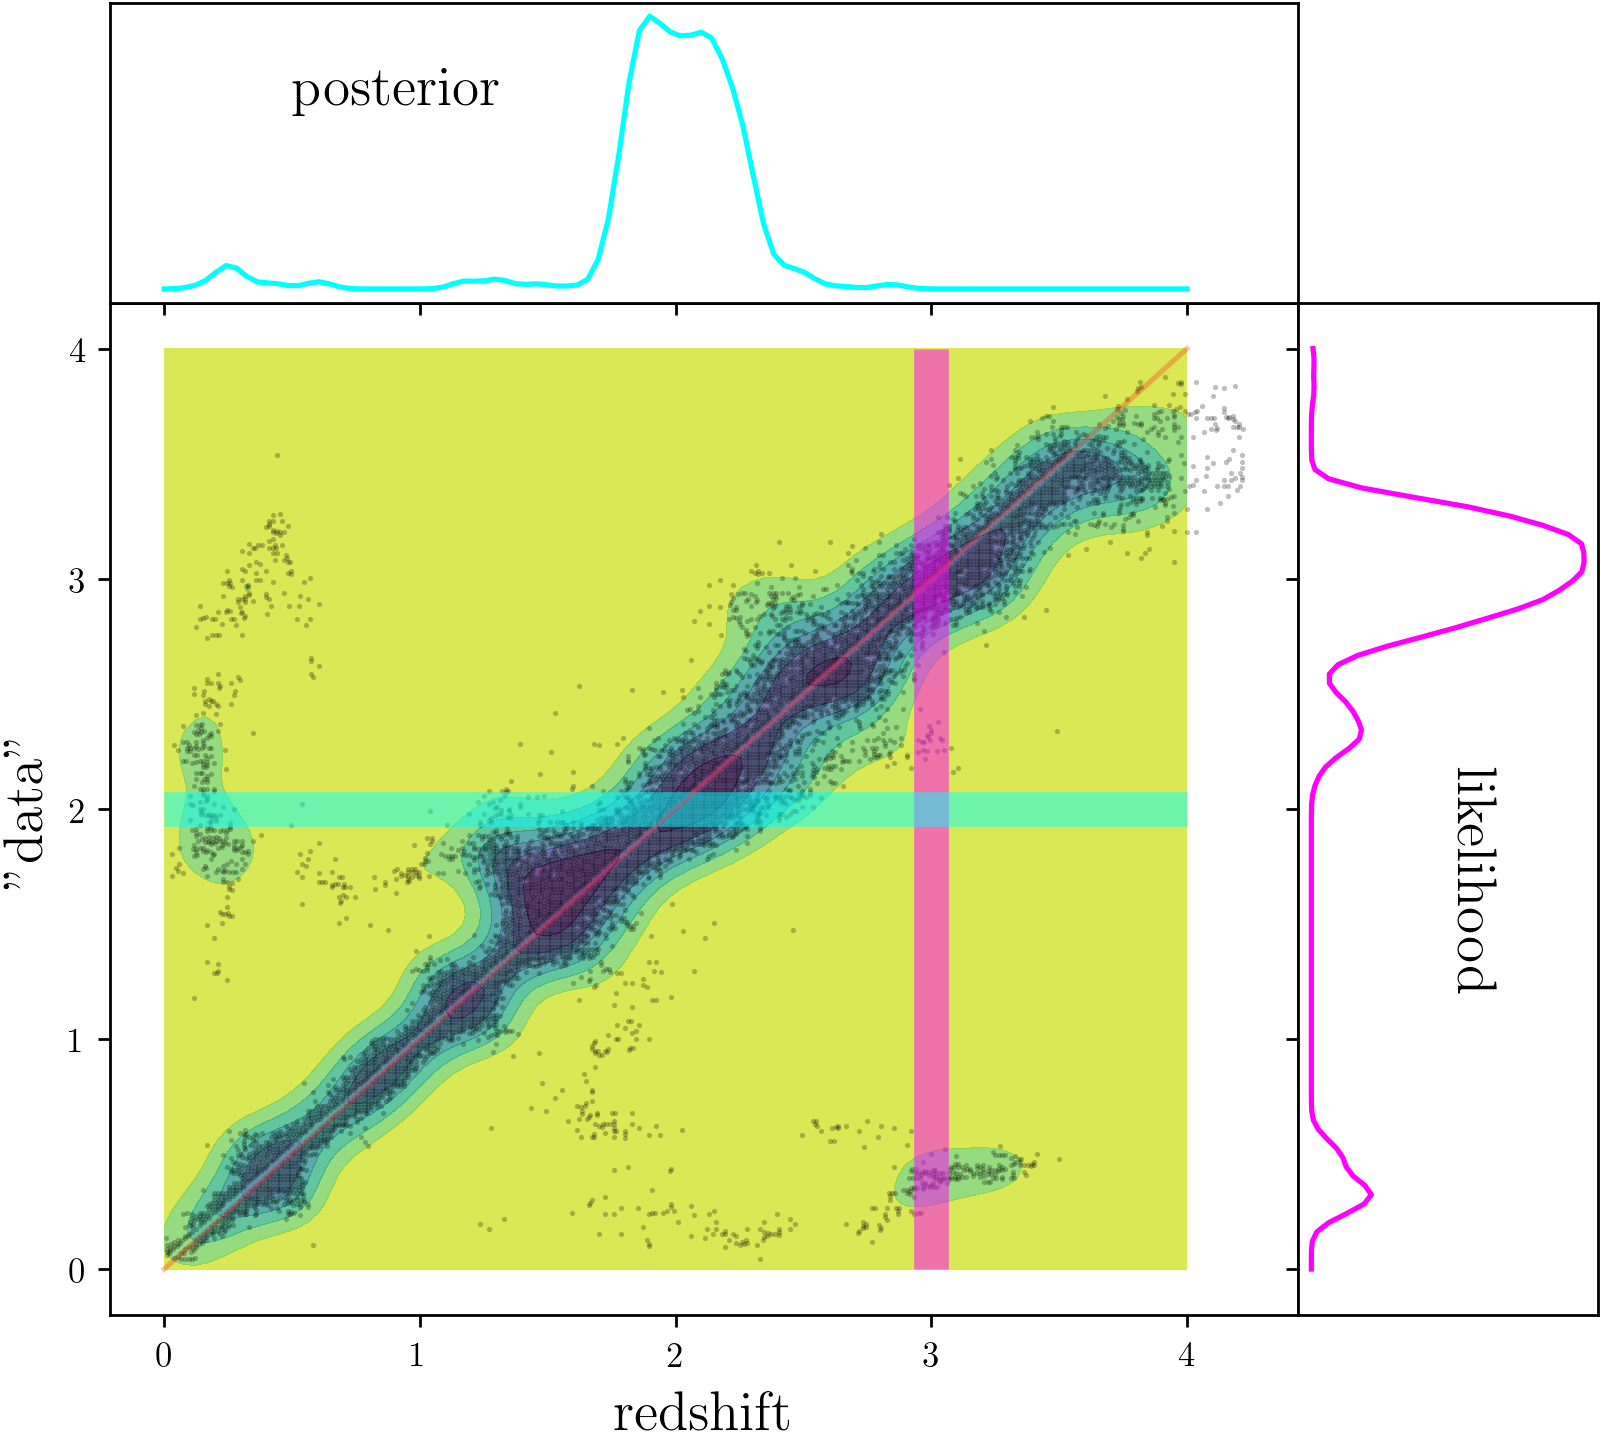
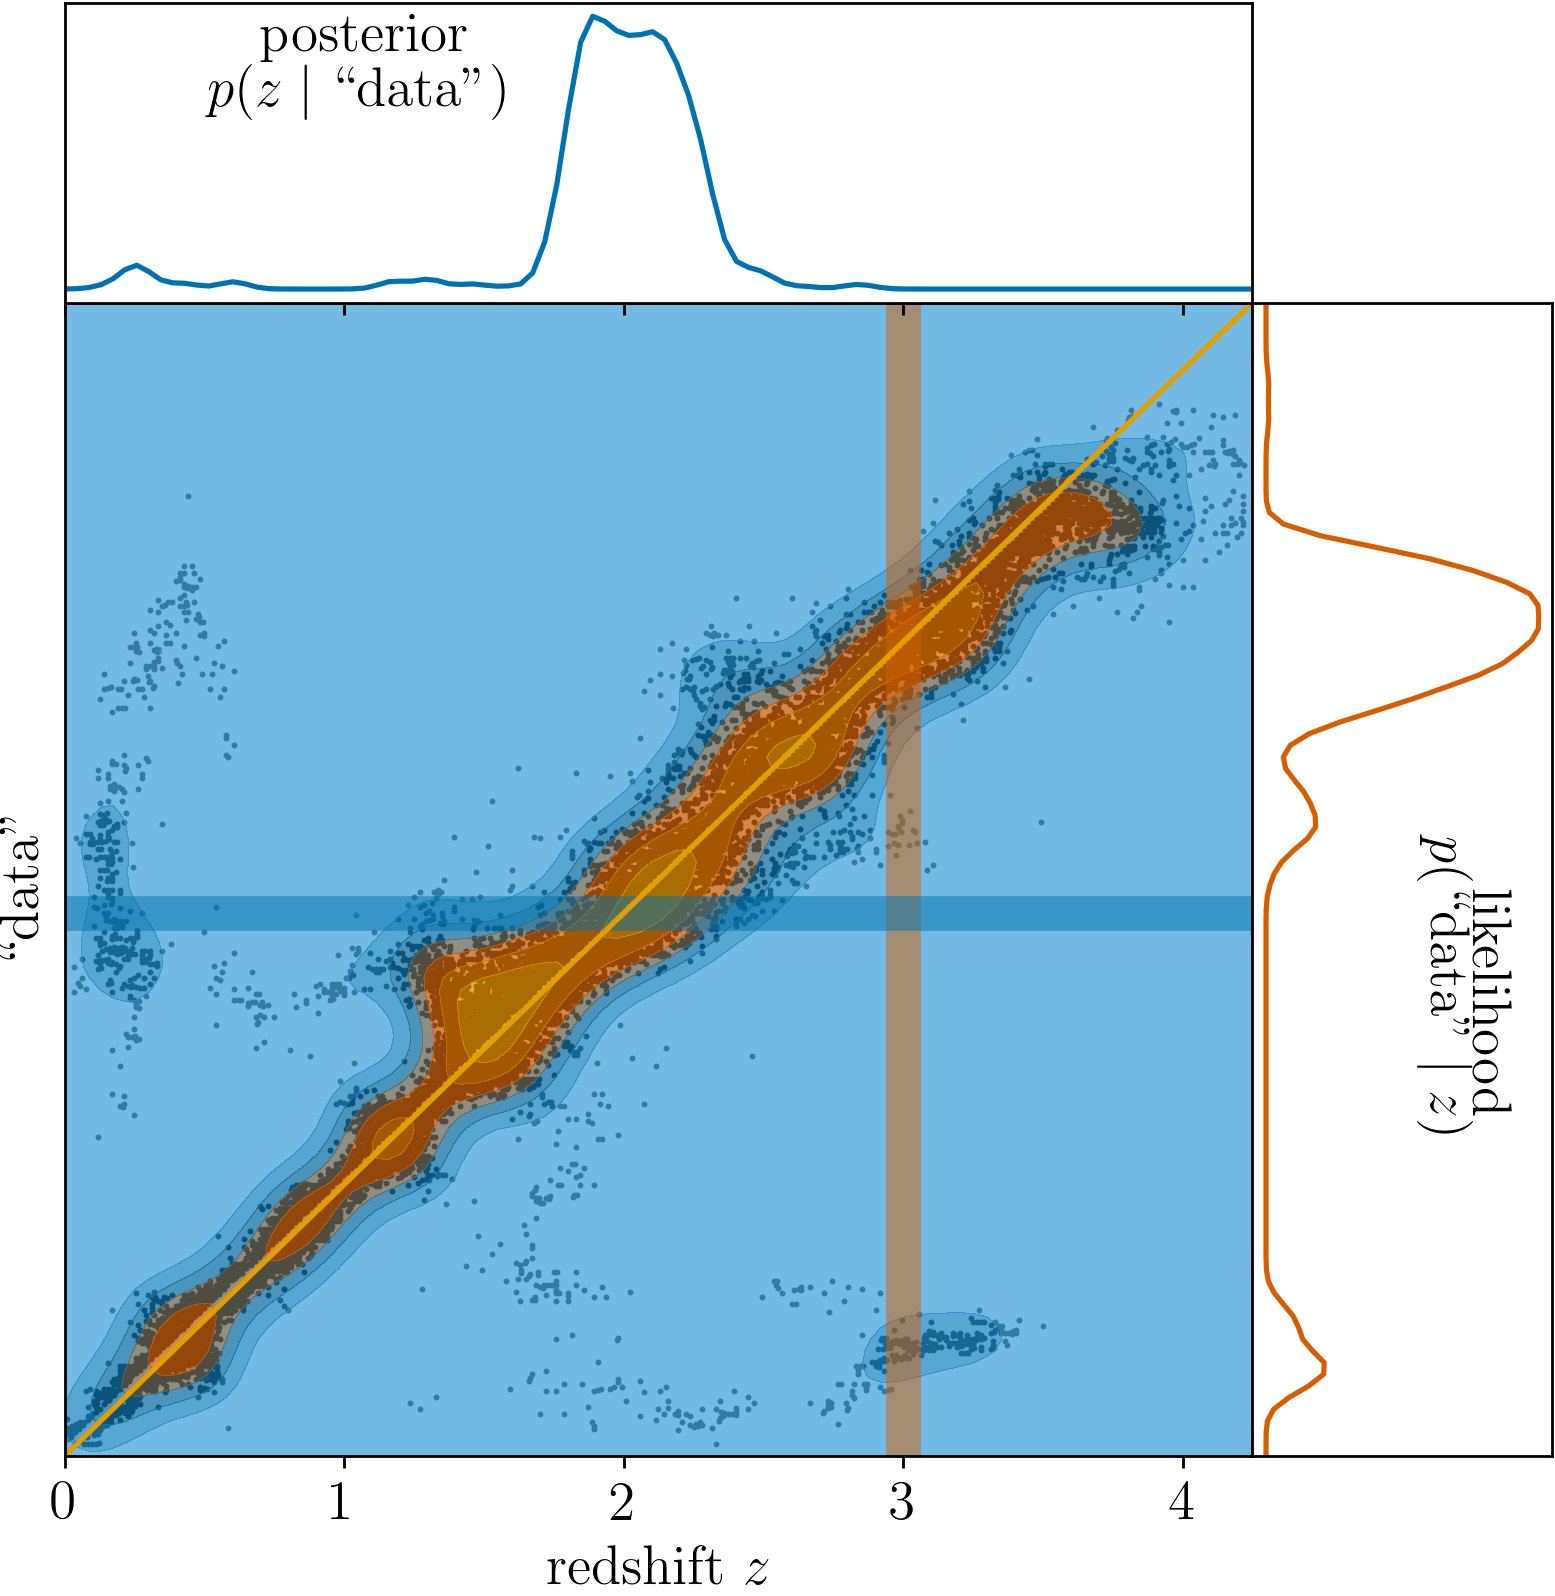
updating figures

diff --git a/research/paper/draft.tex b/research/paper/draft.tex
@@ -127,8 +127,6 @@ The similarity to traditional $z_{\mathrm{spec}}$ versus $z_{\mathrm{phot}}$ plo
 		\caption{
 			A generic probability space (darker in areas of higher probability density) of redshift ($x$-axis) and data ($y$-axis), where the data is projected into a single dimension, with vertical cuts and marginals (cyan) indicating the construction of likelihoods and horizontal cuts and marginals (magenta) indicating the construction of posteriors.
 			The data (black points) used to generate the contours were extracted from \citet{jain_whole_2015} using WebPlotDigitizer \citep{rohatgi_webplotdigitizer_2019}, with the ideal redshift estimation provided for reference (red diagonal).
-			\aim{TODO: Use the colors from the rest of the paper.  
-			Fix backwards quotes on y axis label.}
 		}
 		\label{fig:pedagogical_scatter}
 	\end{center}
@@ -470,14 +468,12 @@ In the fourth phase, we convolve the posteriors with the chosen prior $\pr{z \gv
 
 \begin{figure*}
 	\begin{center}
-		\includegraphics[width=0.9\textwidth]{figures/chippr/flowchart.png}
+		\includegraphics[width=0.9\textwidth]{figures/chippr/flowchart.pdf}
 		\caption{
 			\que{How to make this more attractive?}
 			A flow chart illustrating the forward model used to generate mock data in the validation of \Chippr, as described in \Sect{sec:forward}.
 			Ovals indicate a quantity that must be chosen in order to generate the data, rectangles indicate an operation we perform, and rounded rectangles indicate a quantity created by the forward model.
 			Arrows indicate the inputs and outputs of each operation performed to simulate mock \pzpdf\ catalogs.
-			\aim{TODO: Remove extra ``j'' in ``Convolve'' step.
-			Also, make a high-res or vector graphics version.}
 			}
 		\label{fig:flowchart}
 	\end{center}
@@ -751,7 +747,6 @@ To test the impact of these uncertainties, we simulate mock data with all three 
 		\includegraphics[width=0.45\textwidth]{figures/chippr/cosmolike_inputs.png}
 		\caption{
 			The \lsst-like tomographic binning and true redshift distribution, where the truth (solid) is a PDF evaluated on a fine grid of $350$ redshifts $0.0101 < z < 3.5001$, and the binned (dashed) and drawn (dotted) \nz\ are piecewise constant functions evaluated in $35$ evenly spaced bins, for four different tomographic bins (colors).
-			\aim{TODO: Give figure a title.}
 		}
 		\label{fig:tomobins}
 	\end{center}
